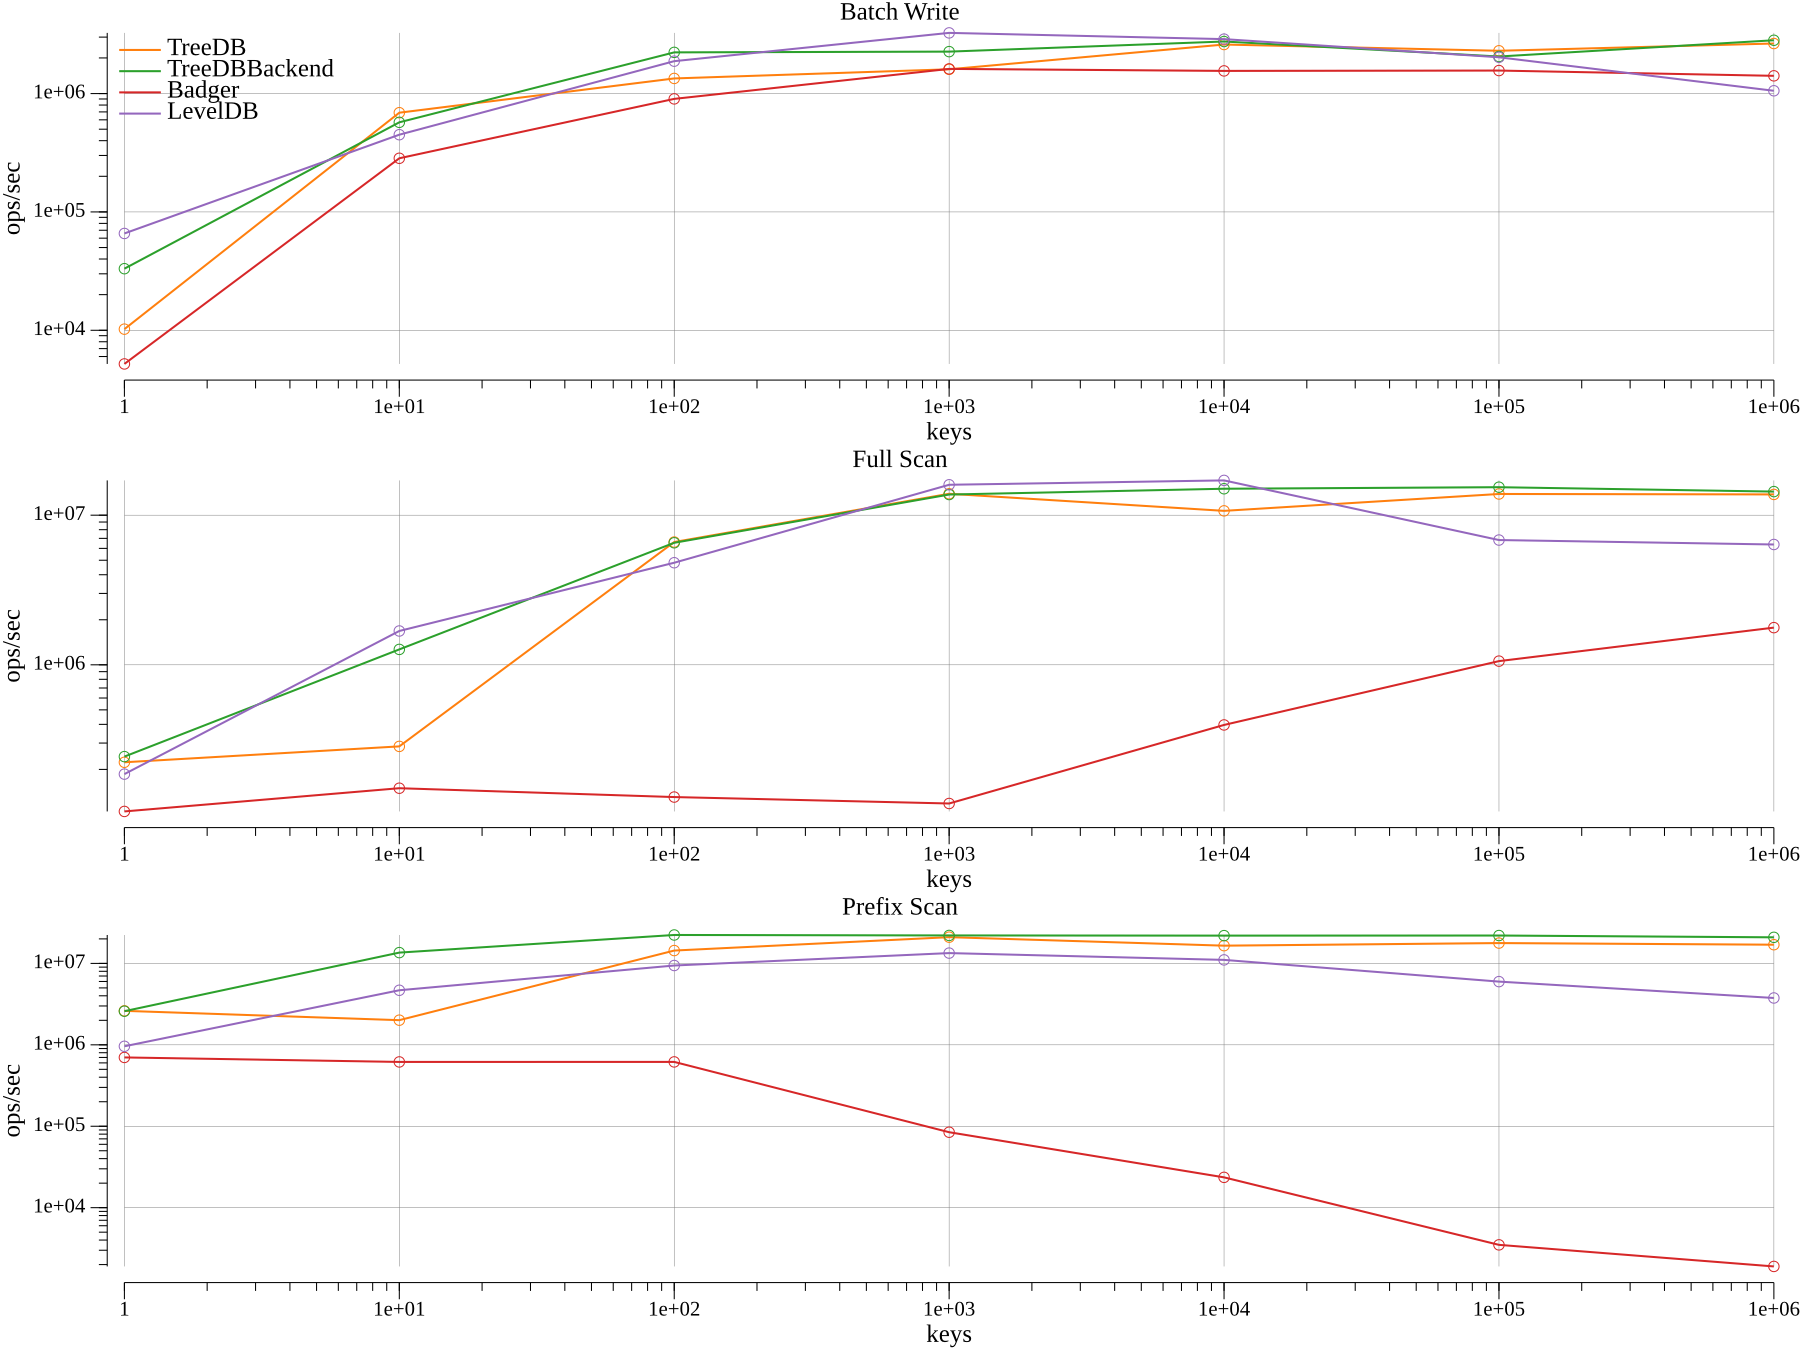
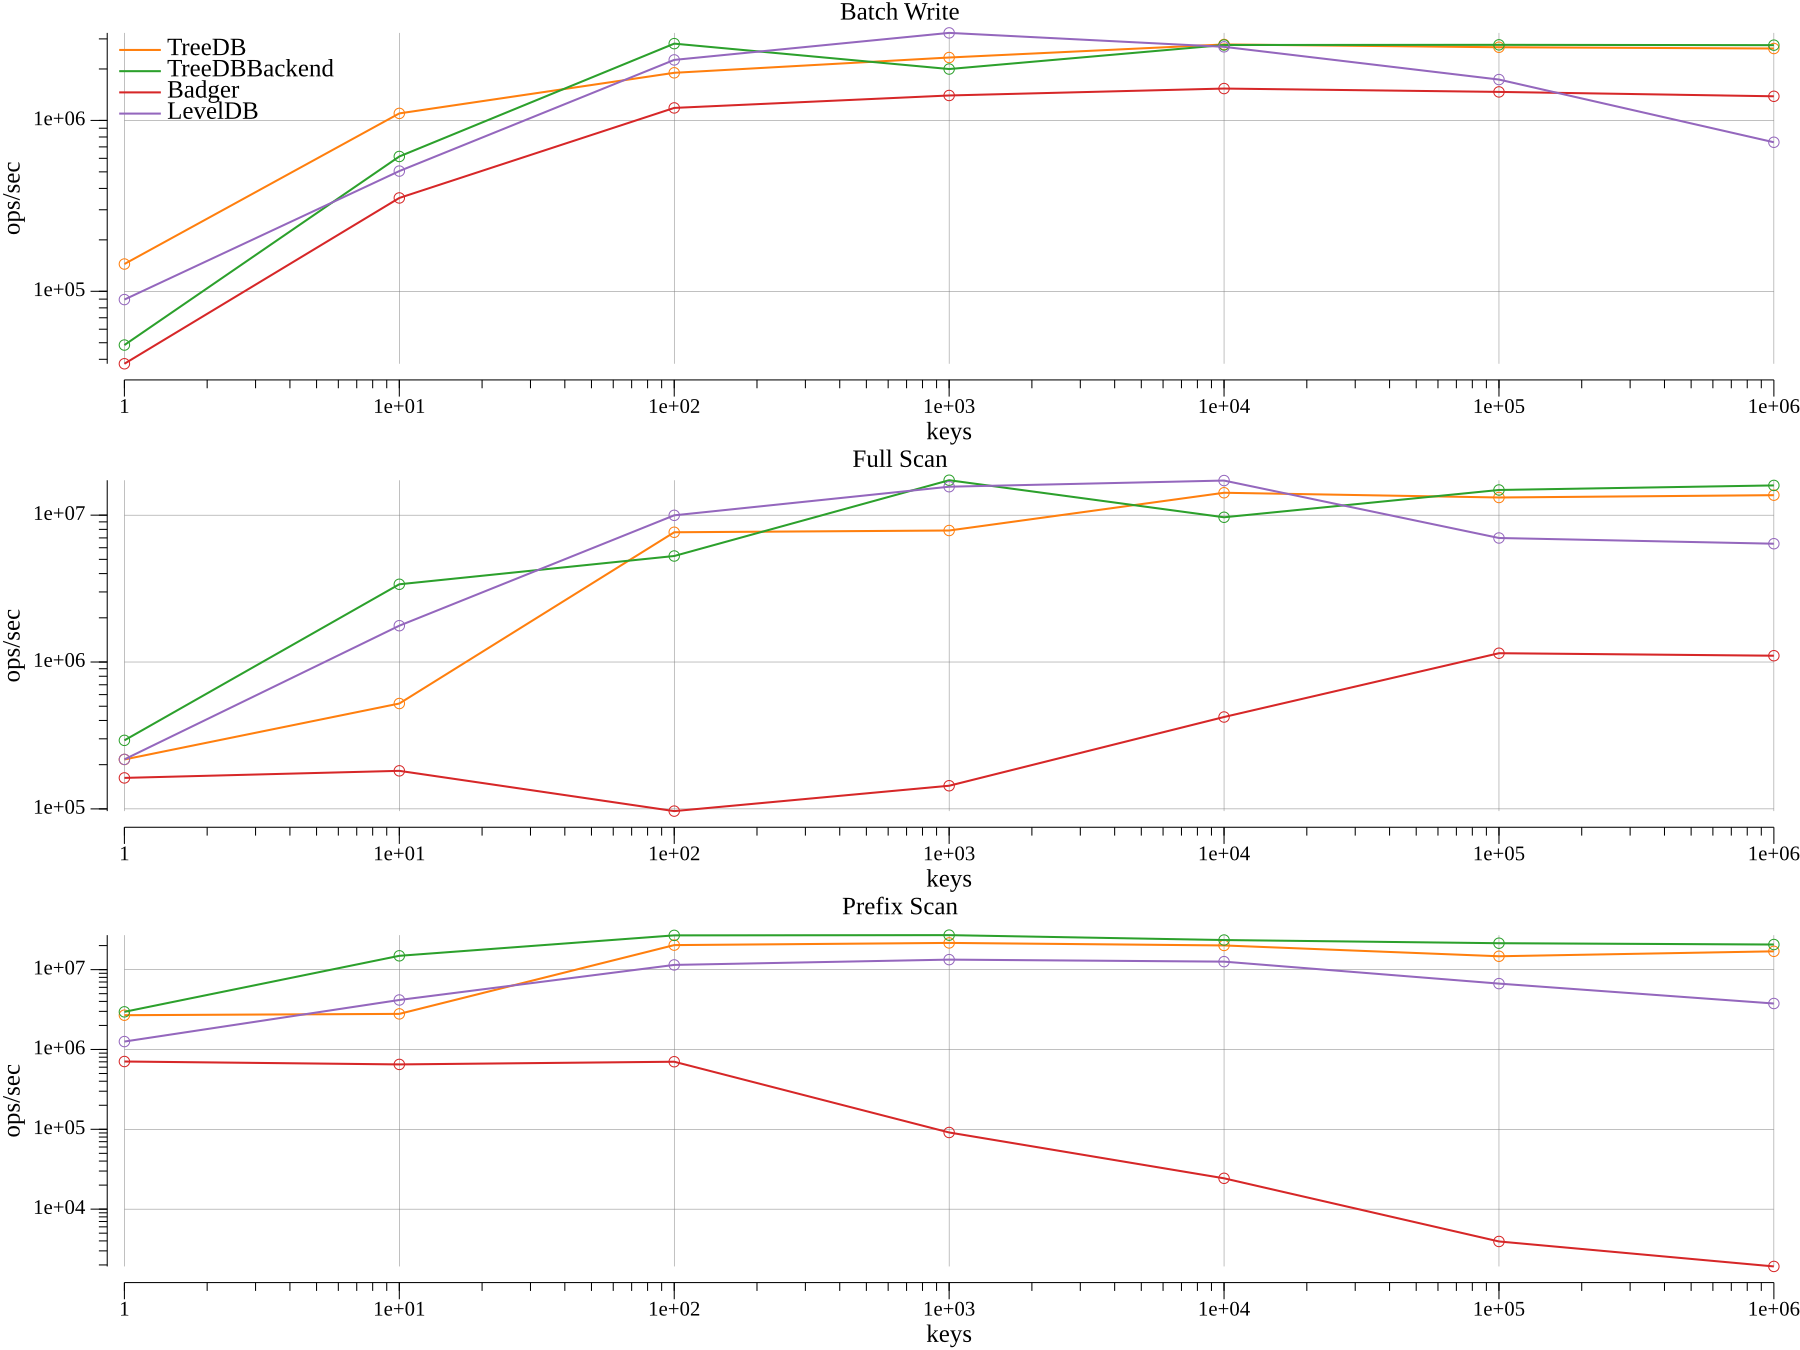
new bench

diff --git a/README.md b/README.md
@@ -48,7 +48,7 @@ More details:
 <!-- BENCHMARK_START -->
 _Generated by `go run ./cmd/unified_bench -suite readme -format markdown`._
 
-_Generated at:_ 2025-12-15T04:02:05Z
+_Generated at:_ 2025-12-15T04:49:54Z
 _Environment:_ linux/amd64 | Go go1.25.5 | CPUs 12 | RAM 31.2 GiB | CPU 11th Gen Intel(R) Core(TM) i5-11400F @ 2.60GHz | Model B560 DS3H AC-Y1
 _Seed:_ 1
 
@@ -73,37 +73,37 @@ _Key counts:_ 1, 10, 100, 1,000, 10,000, 100,000, 1,000,000
 
 | keys | HashDB | TreeDB | Badger | LevelDB |
 |---:|---:|---:|---:|---:|
-| 1 | **368,324** | 117,275 | 37,380 | 38,435 |
-| 10 | **1,461,775** | 929,714 | 122,704 | 281,635 |
-| 100 | 2,095,601 | **2,190,389** | 141,565 | 705,801 |
-| 1,000 | **7,744,314** | 2,612,501 | 180,368 | 780,132 |
-| 10,000 | **7,207,851** | 2,332,159 | 185,079 | 774,765 |
-| 100,000 | **6,844,308** | 1,601,799 | 180,562 | 775,682 |
-| 1,000,000 | **2,027,810** | 1,698,852 | 177,149 | 693,973 |
+| 1 | **336,361** | 132,802 | 48,382 | 79,802 |
+| 10 | **1,341,382** | 1,008,065 | 104,201 | 243,950 |
+| 100 | **3,027,092** | 1,995,530 | 169,015 | 734,446 |
+| 1,000 | **5,238,564** | 2,427,397 | 171,440 | 774,658 |
+| 10,000 | **6,452,396** | 1,988,274 | 179,791 | 774,952 |
+| 100,000 | **6,544,319** | 1,792,463 | 175,283 | 772,836 |
+| 1,000,000 | **2,132,346** | 1,685,851 | 176,726 | 768,275 |
 
 #### Random Write
 
 | keys | HashDB | TreeDB | Badger | LevelDB |
 |---:|---:|---:|---:|---:|
-| 1 | **1,808,318** | 598,086 | 53,978 | 169,520 |
-| 10 | **4,948,046** | 1,953,507 | 150,516 | 451,773 |
-| 100 | **8,205,465** | 2,466,639 | 164,318 | 680,629 |
-| 1,000 | **7,759,457** | 2,431,540 | 180,942 | 712,461 |
-| 10,000 | **6,841,794** | 1,761,658 | 171,862 | 609,993 |
-| 100,000 | **5,677,612** | 1,245,355 | 154,484 | 569,674 |
-| 1,000,000 | 1,061,288 | **1,325,085** | 137,461 | 291,125 |
+| 1 | **2,020,202** | 713,267 | 123,625 | 328,084 |
+| 10 | **4,325,260** | 1,980,590 | 140,679 | 551,785 |
+| 100 | **6,825,473** | 2,594,370 | 165,072 | 700,172 |
+| 1,000 | **5,931,761** | 1,626,241 | 161,923 | 661,771 |
+| 10,000 | **6,279,928** | 1,573,178 | 172,719 | 624,151 |
+| 100,000 | **5,335,731** | 1,240,123 | 154,127 | 610,825 |
+| 1,000,000 | 1,242,547 | **1,271,223** | 134,324 | 281,406 |
 
 #### Random Read
 
 | keys | HashDB | TreeDB | Badger | LevelDB |
 |---:|---:|---:|---:|---:|
-| 1 | **2,369,668** | 1,324,503 | 303,951 | 9,425 |
-| 10 | 7,674,597 | **10,482,180** | 780,640 | 2,212,389 |
-| 100 | 12,865,046 | **18,446,781** | 1,074,356 | 2,310,216 |
-| 1,000 | 10,573,283 | **14,156,486** | 933,687 | 2,172,855 |
-| 10,000 | 4,154,006 | **9,551,153** | 707,061 | 1,296,001 |
-| 100,000 | 722,341 | **1,995,272** | 555,251 | 334,842 |
-| 1,000,000 | 530,050 | **1,305,166** | 156,996 | 229,047 |
+| 1 | **2,427,184** | 2,403,846 | 280,112 | 651,042 |
+| 10 | 6,675,567 | **10,799,136** | 564,302 | 2,178,649 |
+| 100 | 11,364,928 | **19,230,769** | 1,021,701 | 2,269,684 |
+| 1,000 | 13,966,090 | **17,462,674** | 818,545 | 1,920,846 |
+| 10,000 | 6,281,166 | **9,688,965** | 798,255 | 1,430,728 |
+| 100,000 | 748,800 | **1,961,721** | 576,199 | 350,153 |
+| 1,000,000 | 505,410 | **1,271,959** | 161,652 | 227,399 |
 
 
 ### TreeDBBackend baseline (point ops)
@@ -112,9 +112,9 @@ _Key count:_ 1
 
 | Test | TreeDBBackend |
 |---|---:|
-| Sequential Write | 102,522 |
-| Random Write | 287,109 |
-| Random Read | 506,842 |
+| Sequential Write | 109,890 |
+| Random Write | 298,954 |
+| Random Read | 498,256 |
 
 ### Batch + Scans
 
@@ -124,37 +124,37 @@ _Key counts:_ 1, 10, 100, 1,000, 10,000, 100,000, 1,000,000
 
 | keys | TreeDB | TreeDBBackend | Badger | LevelDB |
 |---:|---:|---:|---:|---:|
-| 1 | 10,222 | 33,139 | 5,195 | **65,759** |
-| 10 | **689,132** | 571,494 | 283,938 | 449,216 |
-| 100 | 1,342,156 | **2,228,909** | 901,746 | 1,878,075 |
-| 1,000 | 1,603,404 | 2,261,497 | 1,615,820 | **3,256,024** |
-| 10,000 | 2,596,333 | 2,752,806 | 1,554,413 | **2,884,334** |
-| 100,000 | **2,299,100** | 2,056,653 | 1,564,582 | 2,025,739 |
-| 1,000,000 | 2,647,991 | **2,820,737** | 1,412,125 | 1,055,874 |
+| 1 | **144,404** | 48,475 | 37,662 | 89,445 |
+| 10 | **1,099,143** | 615,120 | 351,753 | 505,255 |
+| 100 | 1,899,155 | **2,813,889** | 1,183,362 | 2,259,785 |
+| 1,000 | 2,333,820 | 1,998,234 | 1,399,251 | **3,252,233** |
+| 10,000 | **2,782,552** | 2,762,987 | 1,536,198 | 2,695,448 |
+| 100,000 | 2,680,166 | **2,768,642** | 1,468,295 | 1,734,285 |
+| 1,000,000 | 2,635,045 | **2,756,336** | 1,383,926 | 744,948 |
 
 #### Full Scan
 
 | keys | TreeDB | TreeDBBackend | Badger | LevelDB |
 |---:|---:|---:|---:|---:|
-| 1 | 223,164 | **243,546** | 104,734 | 186,047 |
-| 10 | 284,981 | 1,267,588 | 149,723 | **1,682,935** |
-| 100 | **6,614,264** | 6,538,939 | 130,685 | 4,811,162 |
-| 1,000 | 13,901,641 | 13,738,340 | 118,357 | **15,964,750** |
-| 10,000 | 10,687,755 | 15,018,307 | 396,416 | **17,078,457** |
-| 100,000 | 13,857,584 | **15,382,765** | 1,058,492 | 6,821,113 |
-| 1,000,000 | 13,763,284 | **14,377,607** | 1,772,230 | 6,369,402 |
+| 1 | 216,967 | **292,826** | 162,522 | 217,297 |
+| 10 | 521,648 | **3,382,950** | 181,587 | 1,767,097 |
+| 100 | 7,647,124 | 5,269,537 | 96,572 | **9,972,078** |
+| 1,000 | 7,858,180 | **17,286,981** | 143,719 | 15,617,435 |
+| 10,000 | 14,204,795 | 9,671,984 | 422,262 | **17,199,507** |
+| 100,000 | 13,186,994 | **14,835,516** | 1,147,855 | 6,989,174 |
+| 1,000,000 | 13,677,832 | **15,938,890** | 1,103,862 | 6,389,880 |
 
 #### Prefix Scan
 
 | keys | TreeDB | TreeDBBackend | Badger | LevelDB |
 |---:|---:|---:|---:|---:|
-| 1 | **2,613,662** | 2,587,389 | 699,817 | 959,016 |
-| 10 | 2,007,871 | **13,568,613** | 616,390 | 4,677,295 |
-| 100 | 14,378,118 | **22,332,211** | 616,781 | 9,420,145 |
-| 1,000 | 20,991,015 | **22,045,940** | 84,439 | 13,384,007 |
-| 10,000 | 16,509,488 | **21,934,802** | 23,566 | 11,041,173 |
-| 100,000 | 17,769,114 | **21,992,964** | 3,493 | 5,974,017 |
-| 1,000,000 | 16,966,520 | **20,903,979** | 1,898 | 3,760,930 |
+| 1 | 2,687,052 | **2,959,368** | 706,354 | 1,255,855 |
+| 10 | 2,789,750 | **14,898,134** | 649,646 | 4,166,331 |
+| 100 | 20,286,317 | **26,866,751** | 702,080 | 11,457,788 |
+| 1,000 | 21,605,058 | **27,046,573** | 91,230 | 13,344,635 |
+| 10,000 | 20,084,820 | **23,479,570** | 24,334 | 12,590,319 |
+| 100,000 | 14,702,128 | **21,425,823** | 3,936 | 6,682,489 |
+| 1,000,000 | 16,951,434 | **20,629,468** | 1,916 | 3,764,190 |
 
 
 ### Quick takeaways
